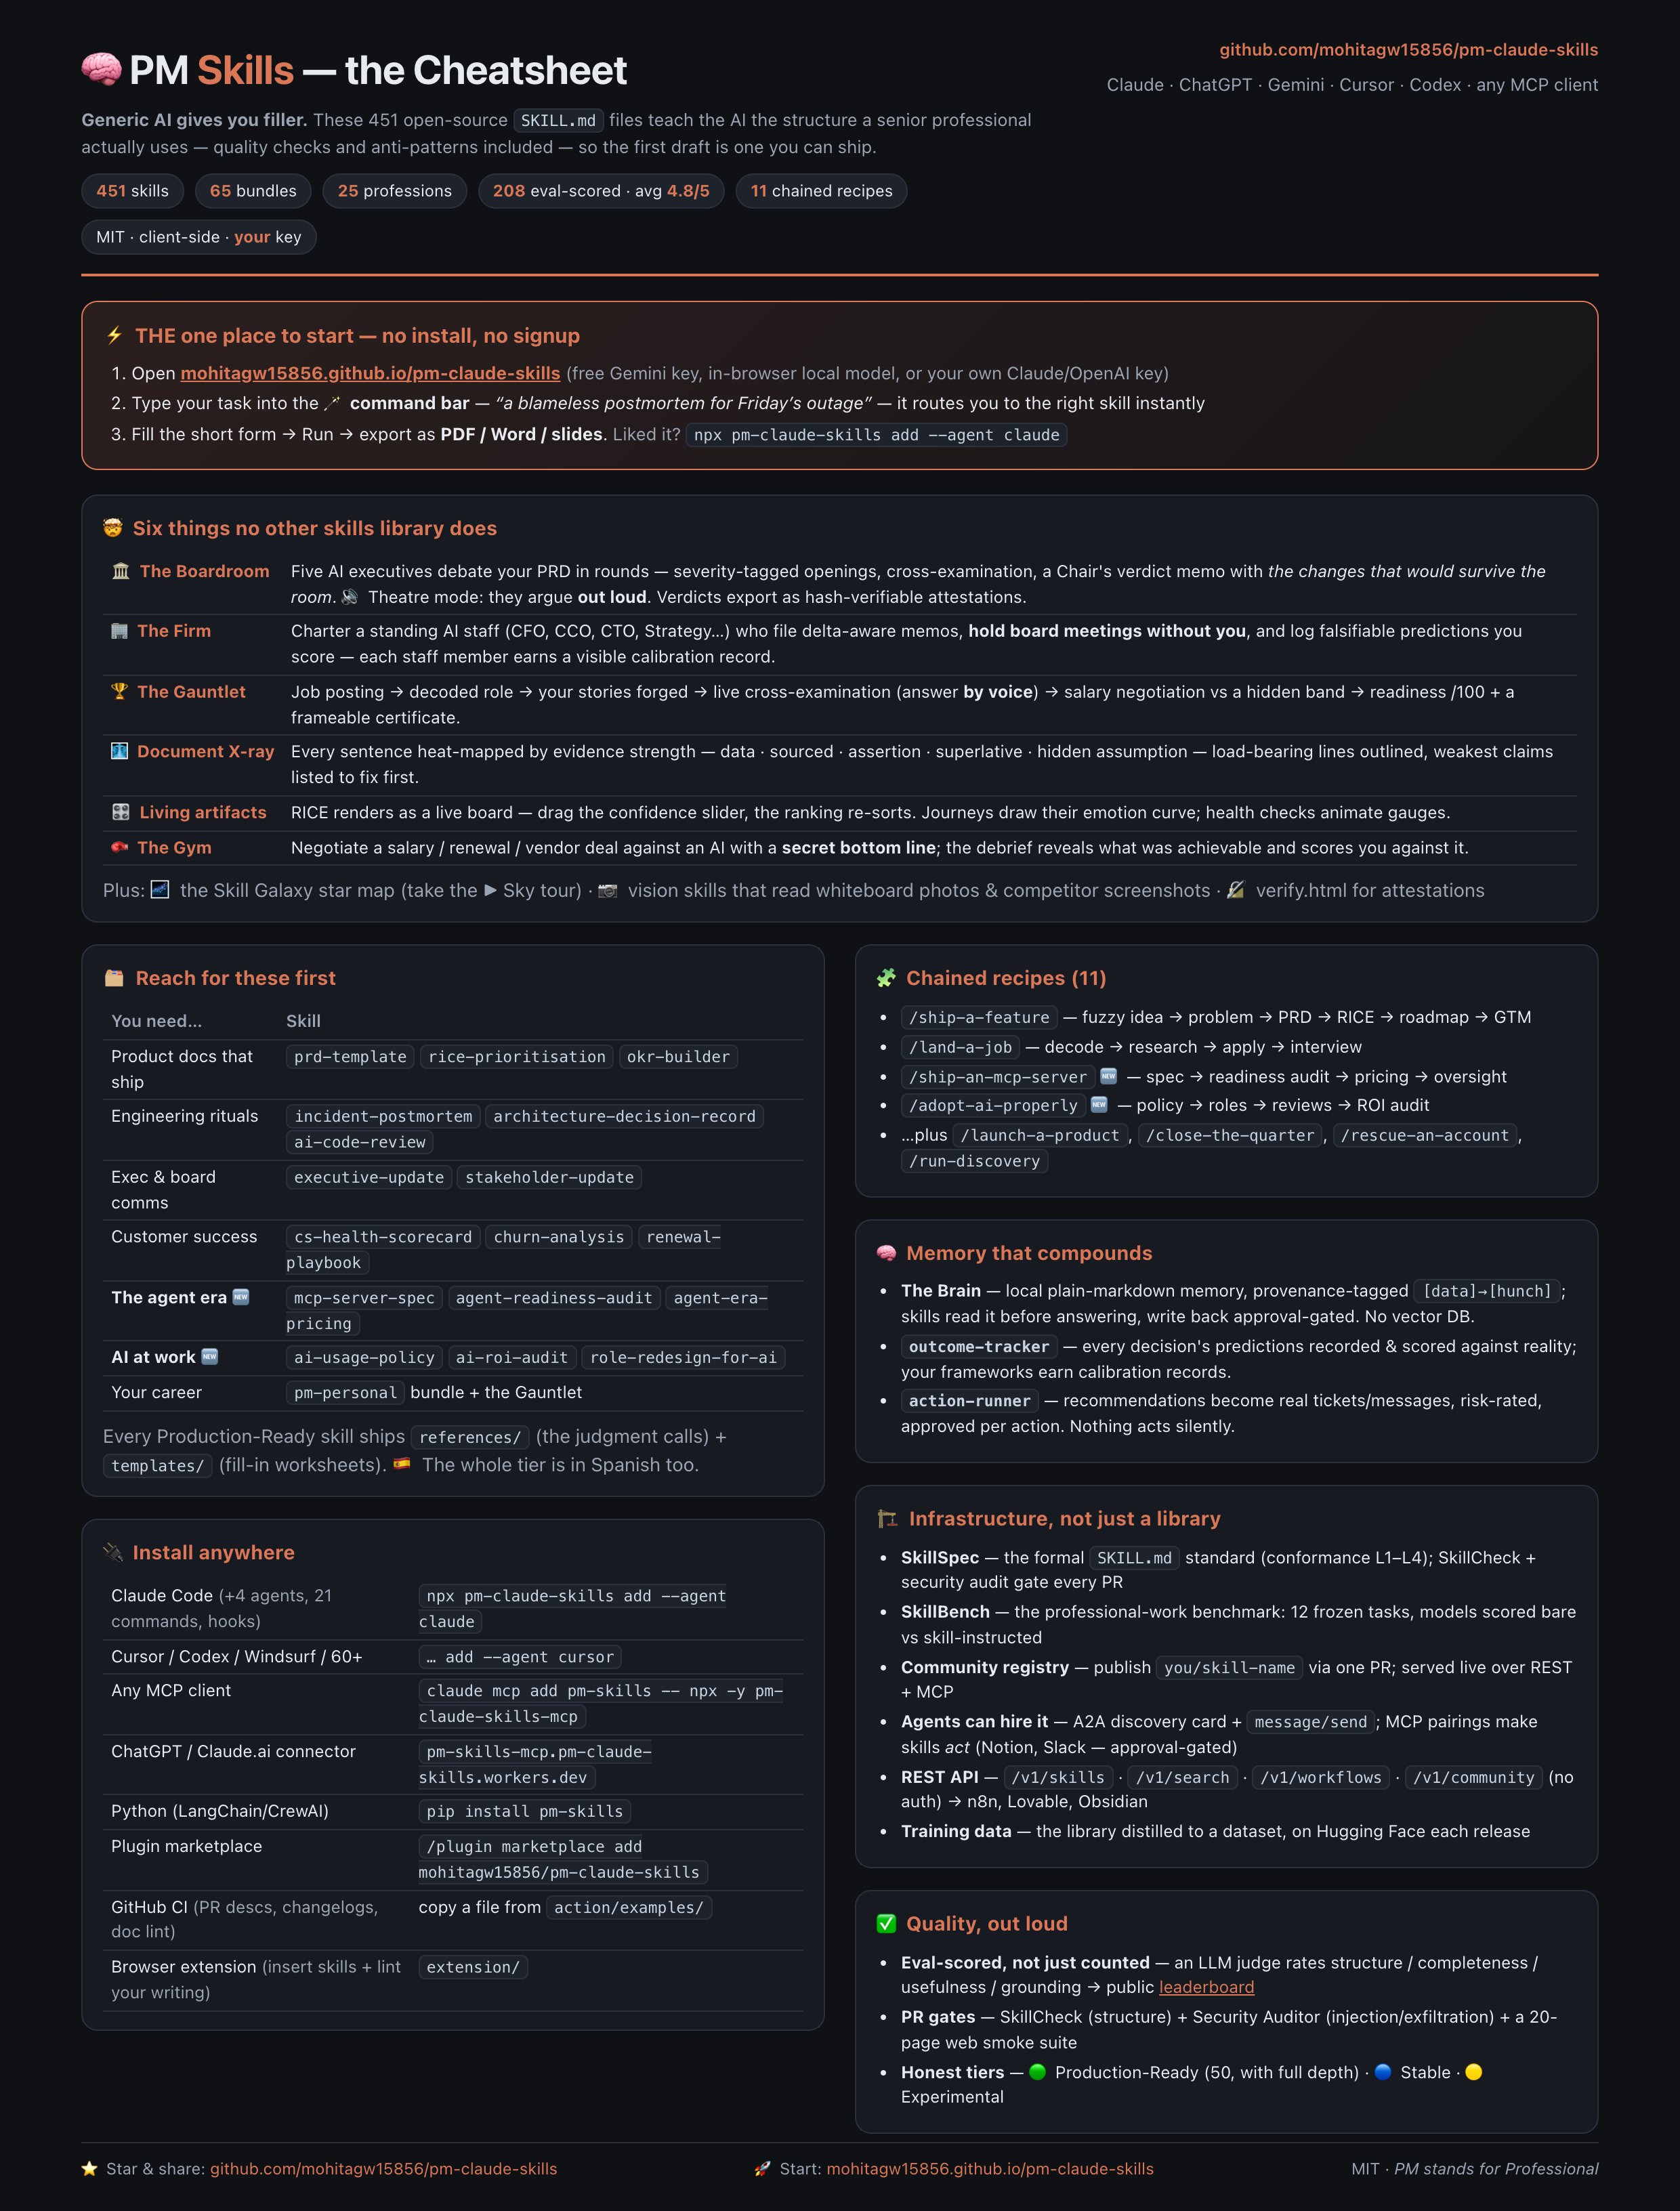
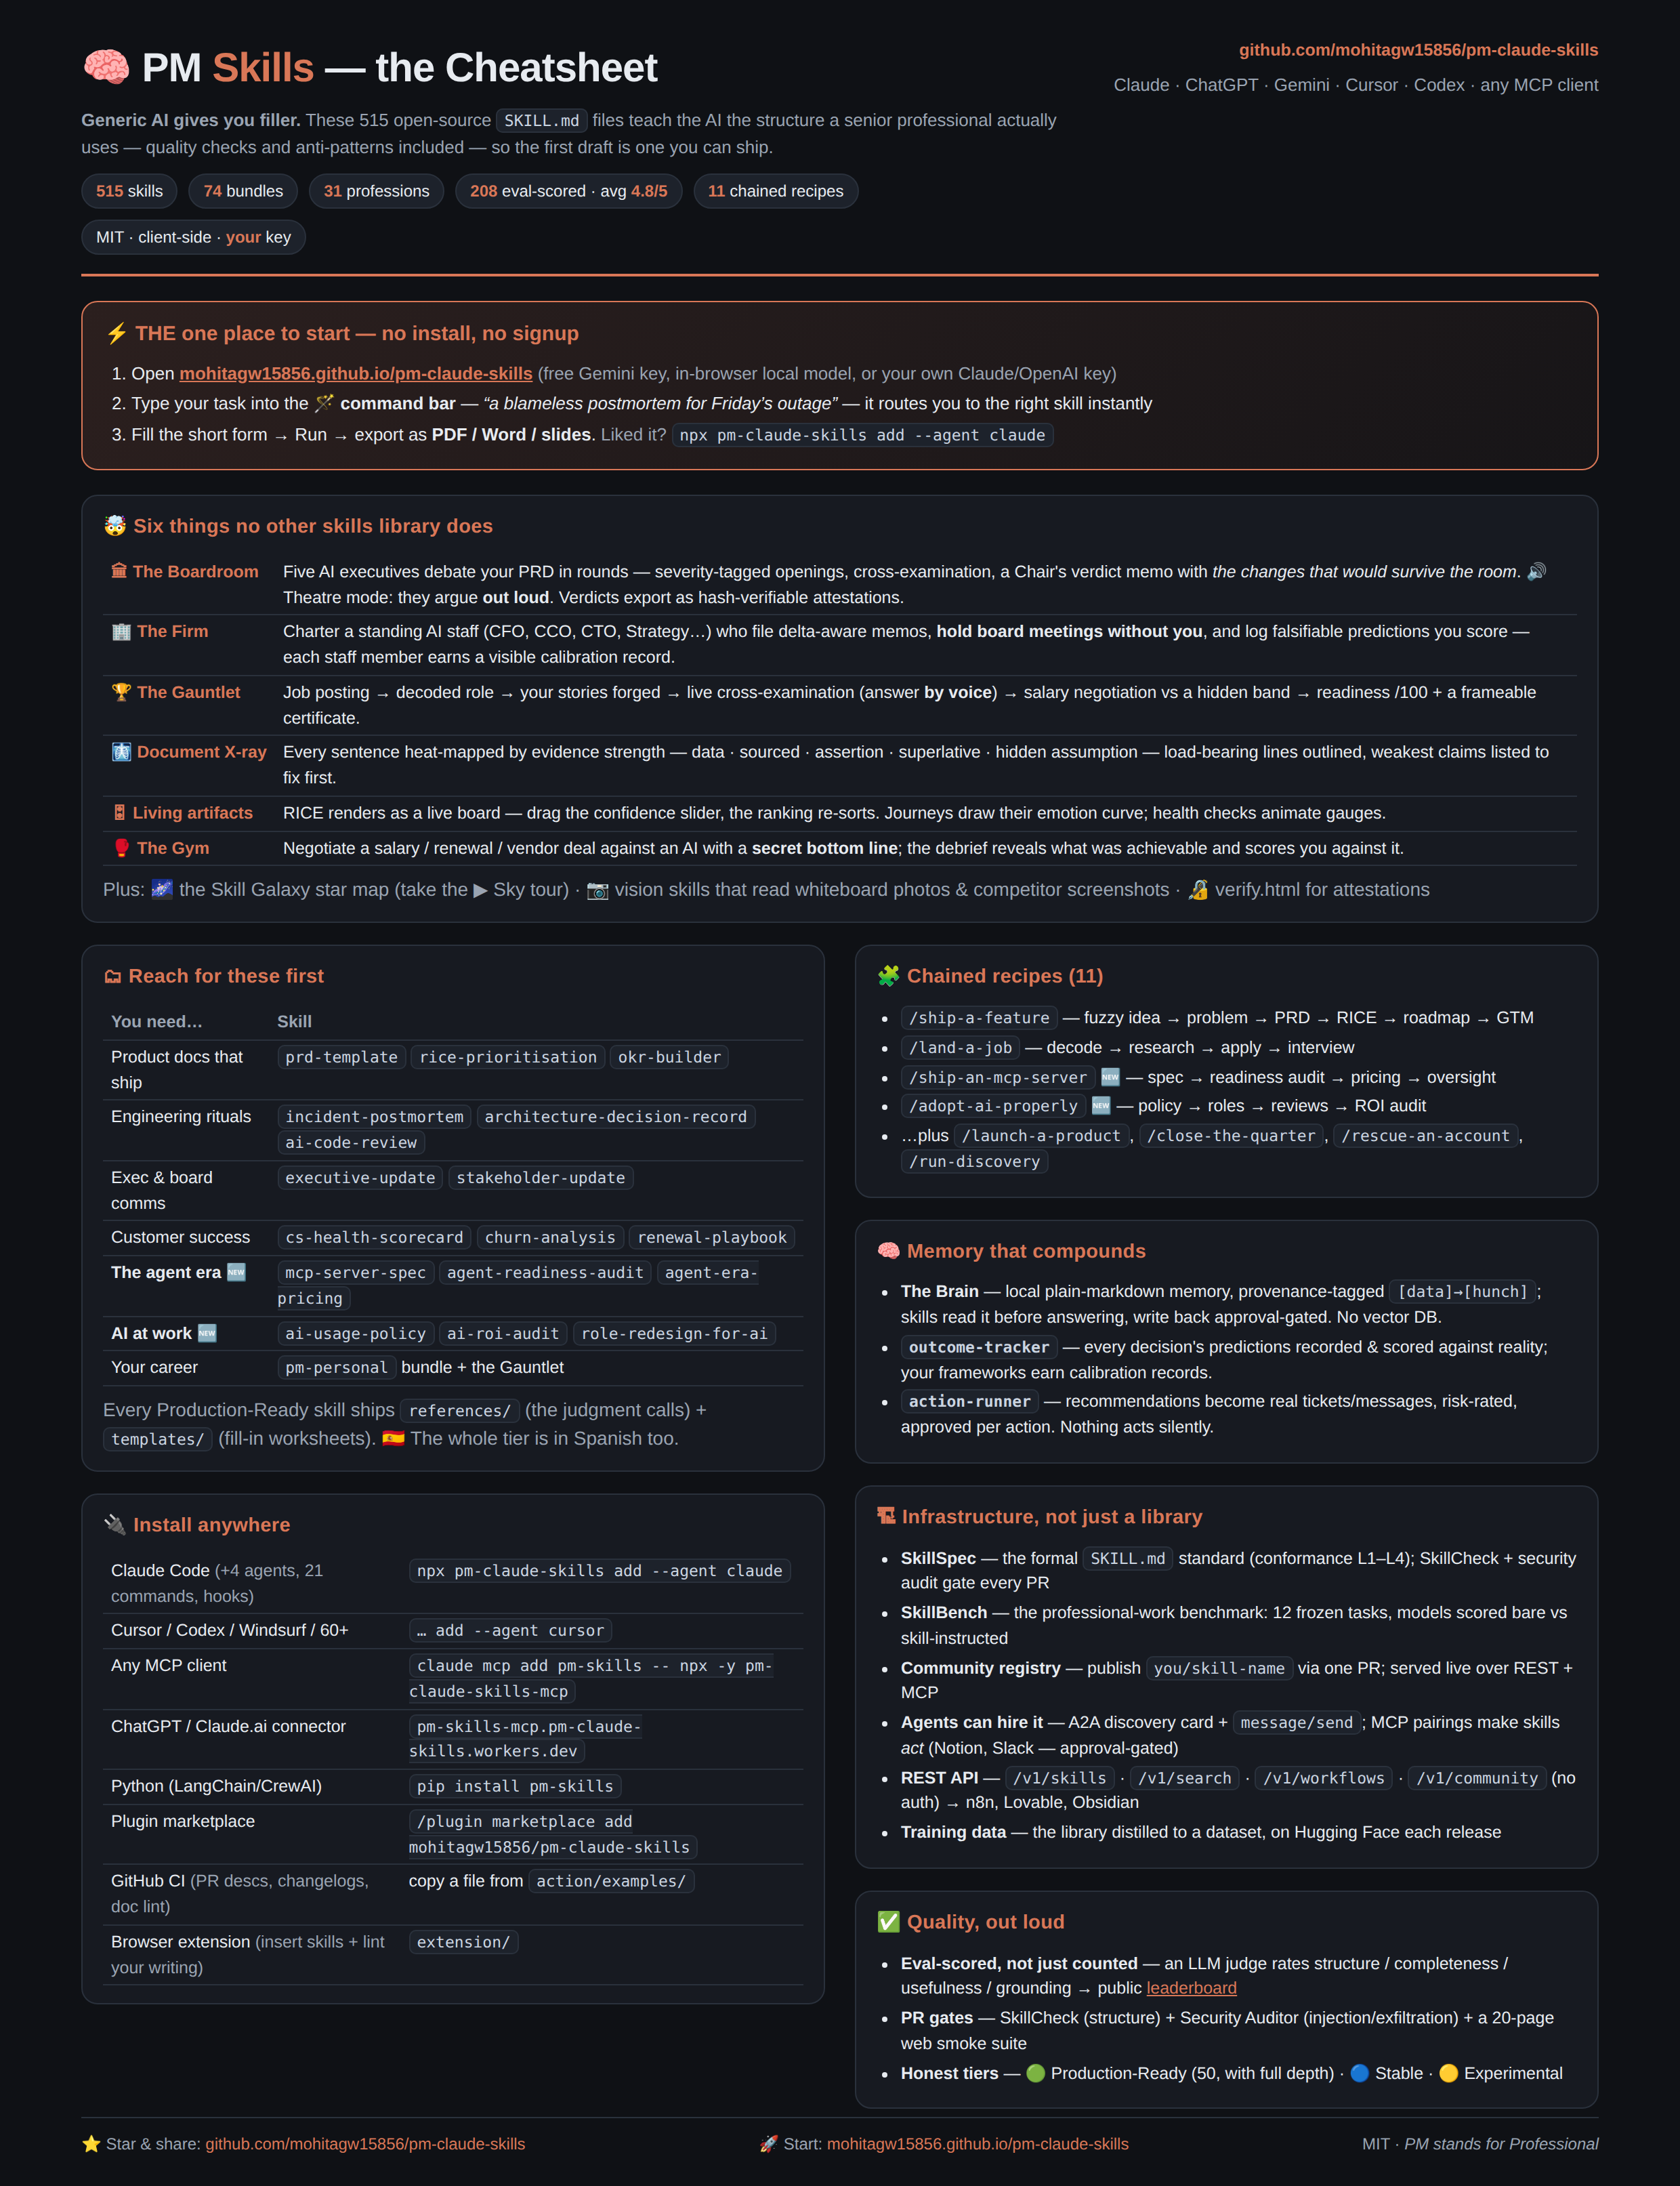
release: v52.0.0 + README refresh, cheatsheet & screenshots
The sensory & spatial release — ten new visual/interactive surfaces.

- Bump 51.0.0 → 52.0.0 (package.json, server.json ×2, marketplace.json).
- CHANGELOG [52.0.0]: Voice Mode, Live Capture, Video export, the War Table,
  Holo Cards, Work OS, Prompt-to-App, the Time Machine, Co-Canvas, Spatial 3D.
- README: trimmed the ~900-word multi-release hero paragraph and the giant
  "Latest" line down to concise v52 leads that point at the CHANGELOG (kept all
  real sections). Added a "New this release" showcase strip with live
  screenshots of Spatial 3D, Voice Mode, Holo Cards, the Time Machine and
  Make it real.
- Cheatsheet: corrected stale counts (74 bundles · 31 professions) and
  re-exported web/docs-assets/cheatsheet.png + .pdf.
- New showcase screenshots under web/docs-assets/showcase/.

Library stays 515 skills · 74 bundles — capability, not count.

Claude-Session: https://claude.ai/code/session_018DwjNk3MthezheWLnasYe8

diff --git a/web/cheatsheet.html b/web/cheatsheet.html
@@ -63,8 +63,8 @@
     <div class="tag"><b>Generic AI gives you filler.</b> These 515 open-source <code>SKILL.md</code> files teach the AI the structure a senior professional actually uses — quality checks and anti-patterns included — so the first draft is one you can ship.</div>
     <div class="stats">
       <span class="pill"><b>515</b> skills</span>
-      <span class="pill"><b>65</b> bundles</span>
-      <span class="pill"><b>25</b> professions</span>
+      <span class="pill"><b>74</b> bundles</span>
+      <span class="pill"><b>31</b> professions</span>
       <span class="pill"><b>208</b> eval-scored · avg <b>4.8/5</b></span>
       <span class="pill"><b>11</b> chained recipes</span>
       <span class="pill">MIT · client-side · <b>your</b> key</span>

diff --git a/CHANGELOG.md b/CHANGELOG.md
@@ -9,6 +9,29 @@ each new wave of skills bumps the **major** version, extensions and fixes bump
 
 ## [Unreleased]
 
+## [52.0.0] — the sensory & spatial release: new ways in, out, and around the library — 2026-07-16
+
+### Added — 🎙️ sensory: new ways in and out
+- **[Voice Mode](https://mohitagw15856.github.io/pm-claude-skills/voice.html)** — a hands-free voice agent fronted by a living canvas **orb** that listens, thinks, and speaks in colour. Web Speech STT + `speechSynthesis` TTS; pick a skill or a free assistant; optional hands-free re-loop. Audio never leaves the browser — only the transcript reaches your provider.
+- **[Live Capture](https://mohitagw15856.github.io/pm-claude-skills/capture.html)** — point a camera at a whiteboard / contract / screen / chart and turn the frame into an artifact **live**, with an animated scanning overlay. Uses the multi-provider vision path (Claude / Gemini / OpenAI).
+- **[Video export](https://mohitagw15856.github.io/pm-claude-skills/video.html)** — paste any output and render a shareable animated **`.webm`** (motion graphic, counting numbers, a Web-Audio soundtrack, your Brand-Kit colour) via `canvas.captureStream` + `MediaRecorder`. No upload.
+
+### Added — 🌊 living visuals
+- **[The War Table](https://mohitagw15856.github.io/pm-claude-skills/wartable.html)** — watch two AI agents **negotiate live**: moves land one at a time, a tension meter and deal-proximity bar swing, and it ends in a verdict (deal / close / standoff). Four scenarios.
+- **[Holo Cards](https://mohitagw15856.github.io/pm-claude-skills/holo.html)** — tear open a **booster pack** and pull tilt-reactive, gyroscope-aware **holographic** skill cards with rarities; every card deep-links into the Playground.
+
+### Added — 🌐 immersive & interactive
+- **[Work OS](https://mohitagw15856.github.io/pm-claude-skills/workos.html)** — a cinematic mission-control deck: dump your open loops and get a **ranked battle plan** that maps each item to the exact skill to run (one-click launches), with a live clock and a "deploy next" rail.
+- **[Prompt-to-App](https://mohitagw15856.github.io/pm-claude-skills/app.html)** — describe a tool (calculator / tracker / quiz / decision matrix) and get a complete **working single-file app** whose state serialises into the URL, so a link reproduces it.
+- **[The Time Machine](https://mohitagw15856.github.io/pm-claude-skills/timemachine.html)** — a draggable, **playable timeline** that replays your professional history (scans local data, accepts pasted `YYYY-MM-DD — event` lines, or a demo) — events and running state animate as you scrub.
+- **[Co-Canvas](https://mohitagw15856.github.io/pm-claude-skills/cocanvas.html)** — a sticky-note whiteboard where **the AI is a participant** (add / cluster / poke holes / expand), with live cross-tab sync (`BroadcastChannel`), presence, and room share links.
+- **[Spatial 3D](https://mohitagw15856.github.io/pm-claude-skills/spatial.html)** — fly through the whole library as a **3D constellation** (hand-rolled canvas projection, no deps): orbit, zoom, search, click a star to open it, coloured by bundle; detects VR headsets via WebXR.
+
+### Changed
+- 10 new surfaces added to the **🆕 New** nav group; new README showcase strip with live screenshots.
+- Cheatsheet poster refreshed (74 bundles · 31 professions) and re-exported to PNG/PDF.
+- **Library:** **515 skills, 74 bundles** — capability, not count.
+
 ## [51.0.0] — the artifact release: skills stop answering and start producing — 2026-07-16
 
 ### Added — 🏭 "Make it real": every skill's output becomes a real deliverable

diff --git a/README.md b/README.md
@@ -86,7 +86,7 @@
 
 A community-built library of professional skills for every field — product management, engineering, customer success, marketing, social media, writers, design, legal, finance, HR, sales, operations, research, and more. Each skill is a structured `SKILL.md` file that teaches an AI assistant how to produce professional-grade outputs for your workflows. Skills run natively in **Claude Code** and **Hermes Agent** (same open `SKILL.md` standard), and ship as ready-to-paste exports for **ChatGPT** and **Gemini** — see [Works With](#-works-with--cross-tool-compatibility).
 
-**🆕 v51.0.0 — the artifact release:** skills stop answering and start producing — 🏭 **[Make it real](https://mohitagw15856.github.io/pm-claude-skills/make.html)** turns any output into a real, on-brand deliverable and builds **[The Packet](https://mohitagw15856.github.io/pm-claude-skills/make.html)** (one brief → a `.zip` of `PRD.doc` + `plan.xlsx` + `deck.pptx`), 🎨 a **Brand Kit** (your logo + colours on every export, all local), 🧮 **live-formula Excel** and 🖼️ auto-designed **one-pagers**; 🗒️ **[Meeting → artifacts](https://mohitagw15856.github.io/pm-claude-skills/meeting.html)** turns a transcript into minutes + an action tracker + follow-up emails, 📊 **[Bring your own data](https://mohitagw15856.github.io/pm-claude-skills/data.html)** grounds a skill in your real CSV/Sheet (with 🌐 one-click translation into 10 languages), and 🌐 the **[Site builder](https://mohitagw15856.github.io/pm-claude-skills/site.html)** emits a self-contained website or a **living document** that stays interactive after download. Plus 💬 **[Consultant Mode](https://mohitagw15856.github.io/pm-claude-skills/consult.html)** (run any skill as an adaptive interview), 🤖 **[SkillBench model rankings](https://mohitagw15856.github.io/pm-claude-skills/modelbench.html)**, 🌱 a **self-growing library**, and 📕 the **[Handbook paperback](https://www.lulu.com/shop/mohit-aggarwal/the-professional-work-handbook/paperback/product-65kwrpk.html)**. **515 skills · 74 bundles.** *Earlier — v50, the wow release:* AI that reads your fine print and argues back — 🔍 **[pm-decoders](plugins/pm-decoders)** (lease, medical bill, ToS, loan, benefits, HOA — plain English, ranked red flags, what's negotiable), ⚔️ **[pm-simulators](plugins/pm-simulators)** (opposing counsel drafts the letter they'd send you, the VC partner meeting after you leave the room, regulator eyes, the customer who quietly churns, the acquirer's red team), 🧮 **four more skills that do real math** (exit-waterfall with computed conversion points, offer-comparison vesting curves, refinance-breakeven with the term-reset trap, fire-number's honesty grid — all CI-pinned), ✨ plus **[receipts-audit](skills/receipts-audit/SKILL.md)** (every claim graded against sources), **[personal-board-of-directors](skills/personal-board-of-directors/SKILL.md)**, **[altitude-shifter](skills/altitude-shifter/SKILL.md)** and **[decision-forensics](skills/decision-forensics/SKILL.md)**. **515 skills · 74 bundles · 31 professions.** *Earlier — v49, the professions release:* six industries nobody built AI for — 🏗 **[pm-construction](plugins/pm-construction)** (bid review, change orders, punch lists, toolbox talks, delay claims), 🔧 **[pm-hardware](plugins/pm-hardware)** (hardware PRDs, BOM review, EVT/DVT/PVT gates, FAT, tooling risk, 8D), 📦 **[pm-supplychain](plugins/pm-supplychain)**, 🌍 **[pm-climate](plugins/pm-climate)** (with a greenwashing self-audit), 🛡 **[pm-insurance](plugins/pm-insurance)** + 🏦 **[pm-banking](plugins/pm-banking)** — plus depth: 📖 worked examples on all 50 production skills, 🎯 0–40 scoring rubrics on all 50, ⌨️ CLI field-by-field prompting, 📜 **[SkillSpec in its own repo](https://github.com/mohitagw15856/skillspec)**. *Earlier — v48, the institution release:* 🏛 **[The Open Institute for Professional Judgment](https://mohitagw15856.github.io/pm-claude-skills/institute.html)** — SkillSpec (+ its [foundation trajectory](docs/FOUNDATION.md)), the Operator's Exam, SkillBench rankings, the census, the Season (with the Hall + automated rollover), and **[The State of Professional AI 2026](docs/reports/state-of-professional-ai-2026.md)**; 🏢 the **[Org Edition](org/)** (`docker compose up` = your company's library on your infra), 🎓 the **[6-week Syllabus](docs/syllabus/)** with SCORM export, 🎖 **[Agent Conformance](conformance/)** certification, 💼 the **[creator economy](docs/CREATORS.md)** (0% take). Plus the frontier wave: 🏆 the Season is OPEN, 🌙 the Nightwatch, ⏰ standing skills, 🗺 the Atlas, 📻 the Morning Show, 👥 multiplayer Boardroom, 🧠 the 7b pipeline. *Earlier — v46, the arsenal release:* ⚔️ **[`pm-warroom`](plugins/pm-warroom)** — the adversarial bundle (Premortem Assassin's twelve failure vectors, Devil's Twin writes the opposition's best memo, Metric Gaslighting Detector's eleven distortions, Decision Autopsy, Assumption Bounty), 🧮 **three more skills that do real math** (Erlang-C staffing, schedule Monte Carlo over the task DAG, tornado sensitivity — CI-pinned exact outputs), 🎭 shareable singles (eulogy-writer, wedding-speech, fine-appeal-letter, skill-fusion), 🎨 **generative identities on every skill page and playground card** (five banner families seeded from the name, matching colours + monograms, ⓘ links), 🎯 **466/466 SkillSpec L3 — CI-enforced**, 🧪 the 76-assertion scripts harness, 📱 the **PWA** (no-API core offline), 📈 [public vitals](https://mohitagw15856.github.io/pm-claude-skills/status.html) + self-operating crons, 🗺 [REPO-MAP](REPO-MAP.md). **466 skills · 66 bundles.** *Earlier — v45, the spectacle release:* Duels, the Charter, Galaxy 3D, the collapsing Tower of Claims, the Stage, holo cards & Skill City. *Earlier — v44, the legendary release:* Campaign mode, the Professional Work Handbook (2,470-rule Anti-Pattern Almanac), the Reckoning, the ecosystem package manager, zero-key MCP sampling, pm-skills-tools, the SkillSpec badge & the census. *Earlier — v43, the local-first & learning wave:* the 🗂 workspace bridge, Boardroom replay links & bench packs, 🎤 The Panel, 🎓 The Academy, 🎁 Wrapped, the evolution loop & pm-method. *Earlier — v42:* depth (`references/` + `templates/`) on all Production-Ready skills, 🔊 Theatre voices, Firm calibration & the CI smoke suite. *Earlier — v41, the modern skills wave:* two new domains — **🤖 [`pm-agentnative`](plugins/pm-agentnative)** (build for non-human users: [`mcp-server-spec`](skills/mcp-server-spec/SKILL.md), [`agent-readiness-audit`](skills/agent-readiness-audit/SKILL.md), [`agent-era-pricing`](skills/agent-era-pricing/SKILL.md), [`human-in-the-loop-design`](skills/human-in-the-loop-design/SKILL.md), [`voice-agent-design`](skills/voice-agent-design/SKILL.md)) and **🧑💼 [`pm-aiwork`](plugins/pm-aiwork)** (the questions every manager has this year: [`ai-roi-audit`](skills/ai-roi-audit/SKILL.md), [`role-redesign-for-ai`](skills/role-redesign-for-ai/SKILL.md), [`ai-usage-policy`](skills/ai-usage-policy/SKILL.md), [`ai-assisted-performance-review`](skills/ai-assisted-performance-review/SKILL.md), [`ai-content-audit`](skills/ai-content-audit/SKILL.md)) — plus 5 singles ([`ai-code-review`](skills/ai-code-review/SKILL.md), [`synthetic-user-research`](skills/synthetic-user-research/SKILL.md), [`async-decision-memo`](skills/async-decision-memo/SKILL.md), [`brand-impersonation-response`](skills/brand-impersonation-response/SKILL.md), [`feature-sunset-plan`](skills/feature-sunset-plan/SKILL.md)). Also: 🌠 Galaxy shooting stars + a 🎲 Warp button, 🎓 frameable [certificates](web/export-doc.js) from the arena pages, and 🔌 [MCP pairings](connectors/mcp-pairings.md) — skills that act through your connected servers. *Earlier — v40: [The Firm](https://mohitagw15856.github.io/pm-claude-skills/firm.html). v39 (three waves):* ⚡ *Superpowers:* [SkillBench](skillbench/) (the professional-work benchmark for models) · the [community registry](community/) (npm-for-skills) · the [Interview Gauntlet](https://mohitagw15856.github.io/pm-claude-skills/gauntlet.html) · [CI recipes](action/examples/) + [ambient hooks](hooks/) · Hugging Face [dataset publishing](dataset/) · [localization to 8 languages](i18n/). 🤯 *Breathtaking:* [living artifacts](https://mohitagw15856.github.io/pm-claude-skills/), [Document X-ray](https://mohitagw15856.github.io/pm-claude-skills/xray.html), [The Gym](https://mohitagw15856.github.io/pm-claude-skills/gym.html), [`pm-vision`](plugins/pm-vision), [`style-fingerprint`](skills/style-fingerprint/SKILL.md), [`evidence-lock`](skills/evidence-lock/SKILL.md). ✨ *Revamped:* the playground command bar + Galaxy 2.0 with a guided Sky tour. **466 skills · 66 bundles · 25 professions.** → [CHANGELOG](CHANGELOG.md) · [all releases](https://github.com/mohitagw15856/pm-claude-skills/releases).
+**🆕 v52.0.0 — the sensory & spatial release:** new ways in, out, and around the library — 🎙️ **[Voice Mode](https://mohitagw15856.github.io/pm-claude-skills/voice.html)** (talk to it; a living orb talks back), 📷 **[Live Capture](https://mohitagw15856.github.io/pm-claude-skills/capture.html)** (point a camera, get the artifact), 🎬 **[Video export](https://mohitagw15856.github.io/pm-claude-skills/video.html)** (any output → a shareable clip), ⚔️ **[The War Table](https://mohitagw15856.github.io/pm-claude-skills/wartable.html)** (watch two AIs negotiate live), 🎴 **[Holo Cards](https://mohitagw15856.github.io/pm-claude-skills/holo.html)**, 🛰️ **[Work OS](https://mohitagw15856.github.io/pm-claude-skills/workos.html)** (your open loops → a ranked battle plan), ⚙️ **[Prompt-to-App](https://mohitagw15856.github.io/pm-claude-skills/app.html)**, ⏳ **[The Time Machine](https://mohitagw15856.github.io/pm-claude-skills/timemachine.html)**, 🧑🤝🧑 **[Co-Canvas](https://mohitagw15856.github.io/pm-claude-skills/cocanvas.html)** (the AI joins your whiteboard), and 🌌 **[Spatial 3D](https://mohitagw15856.github.io/pm-claude-skills/spatial.html)** (fly through the whole library). **515 skills · 74 bundles.** → The full release history lives in the **[CHANGELOG](CHANGELOG.md)** · [all releases](https://github.com/mohitagw15856/pm-claude-skills/releases).
 
 ### ▶ See it in action — [try the live Skill Playground](https://mohitagw15856.github.io/pm-claude-skills/)
 
@@ -115,6 +115,22 @@ In Claude Code, [`/firm`](commands/firm.md) runs the same session natively — g
 </table>
 
 ---
+
+## 🆕 New this release — the sensory & spatial wave
+
+<table>
+  <tr>
+    <td width="64%"><a href="https://mohitagw15856.github.io/pm-claude-skills/spatial.html"><img src="web/docs-assets/showcase/spatial.png" alt="Spatial 3D — the whole library as a navigable 3D constellation of skills, coloured by bundle" /></a><br /><sub><b>🌌 <a href="https://mohitagw15856.github.io/pm-claude-skills/spatial.html">Spatial 3D</a></b> — fly through all 515 skills as a constellation you orbit, zoom, and click straight into.</sub></td>
+    <td width="36%"><a href="https://mohitagw15856.github.io/pm-claude-skills/voice.html"><img src="web/docs-assets/showcase/voice.png" alt="Voice Mode — a living orb you talk to hands-free; it listens, thinks, and speaks back" /></a><br /><sub><b>🎙️ <a href="https://mohitagw15856.github.io/pm-claude-skills/voice.html">Voice Mode</a></b> — talk to the library; a living orb listens and answers out loud.</sub></td>
+  </tr>
+  <tr>
+    <td><a href="https://mohitagw15856.github.io/pm-claude-skills/holo.html"><img src="web/docs-assets/showcase/holo.png" alt="Holo Cards — tilt-reactive holographic skill cards pulled from a booster pack, with rarities" /></a><br /><sub><b>🎴 <a href="https://mohitagw15856.github.io/pm-claude-skills/holo.html">Holo Cards</a></b> — tear open a pack and pull tilt-reactive holographic skill cards.</sub></td>
+    <td><a href="https://mohitagw15856.github.io/pm-claude-skills/timemachine.html"><img src="web/docs-assets/showcase/timemachine.png" alt="The Time Machine — a draggable, playable timeline that replays your professional history" /></a><br /><sub><b>⏳ <a href="https://mohitagw15856.github.io/pm-claude-skills/timemachine.html">The Time Machine</a></b> — scrub a playable timeline of your decisions & predictions.</sub></td>
+  </tr>
+  <tr>
+    <td colspan="2"><a href="https://mohitagw15856.github.io/pm-claude-skills/make.html"><img src="web/docs-assets/showcase/make.png" alt="Make it real — turn any skill's output into a branded document, deck, model, or a whole zip Packet" /></a><br /><sub><b>🏭 <a href="https://mohitagw15856.github.io/pm-claude-skills/make.html">Make it real</a></b> — any skill's output → a branded PDF / Word / deck / live-formula Excel, or a one-click <b>Packet</b> (a zip of finished documents). Plus ⚔️ <a href="https://mohitagw15856.github.io/pm-claude-skills/wartable.html">the War Table</a> (watch two AIs negotiate live), 🛰️ <a href="https://mohitagw15856.github.io/pm-claude-skills/workos.html">Work OS</a>, ⚙️ <a href="https://mohitagw15856.github.io/pm-claude-skills/app.html">Prompt-to-App</a>, 🧑🤝🧑 <a href="https://mohitagw15856.github.io/pm-claude-skills/cocanvas.html">Co-Canvas</a> & 🎬 <a href="https://mohitagw15856.github.io/pm-claude-skills/video.html">Video export</a>.</sub></td>
+  </tr>
+</table>
 
 ## ✨ The showcase — six things no other skills library does
 
@@ -958,7 +974,7 @@ More templates will follow. If you want to contribute one, see the [template con
 <details>
 <summary>Read more ↓</summary>
 
-**Latest: v51.0.0 — the artifact release: skills produce real deliverables — Make it real & the Packet (one brief → a zip of PRD.doc + plan.xlsx + deck.pptx), a local Brand Kit on every export, live-formula Excel, auto one-pagers, Meeting → artifacts (minutes + action tracker + emails), Bring-your-own-data grounding + translation into 10 languages, a Site builder that emits self-contained sites & living documents, Consultant Mode, SkillBench model rankings, the self-growing library, and the Handbook paperback on Lulu — 515 skills, 74 bundles** · *v50, the wow release:* pm-decoders (AI reads your lease, medical bill, ToS, loan, benefits and HOA fine print), pm-simulators (opposing counsel, the VC partner meeting, regulator eyes, the churning customer, the acquirer's red team), four more CI-pinned calculators (exit waterfall, offer comparison, refi breakeven, FIRE grid), receipts-audit, the personal board of directors, altitude-shifter and decision-forensics · *v49, the professions release:* 30 new skills for construction, hardware, supply chain, climate/ESG, insurance and banking, worked examples + 0–40 scoring rubrics on all 50 production skills, CLI field-by-field prompting, and SkillSpec spun out to its own RFC-governed repo · *v48, the institution release:* the Open Institute, the Org Edition, the Syllabus with SCORM, Agent Conformance, the creator economy (0% take), the Season + Nightwatch + Atlas + Morning Show · *v47, the off-web release:* text or call a skill (signature-verified Twilio Worker), the email-native operator, the printable Operator's Deck with QR deep-links, Run the Firm tycoon game, the local-only Watch-me-work coach extension, and the auto morning-show newsletter — plus a 🆕 New nav group + scrollable dropdowns · *v46, the arsenal release:* the pm-warroom adversarial bundle, three more computed skills, the shareable singles, generative identities everywhere, 466/466 L3 CI-enforced, the PWA, public vitals & the self-operating crons · *v44:* Campaign mode, the Handbook, the Reckoning, the ecosystem package manager, zero-key MCP sampling, pm-skills-tools, the badge & the census · *v43:* the workspace bridge, replay links & bench packs, The Panel, The Academy, Wrapped, the evolution loop & pm-method · *v42:* depth on all Production-Ready skills, arena voices, Firm calibration & the web-tests safety net · *v41, modern skills:* [`pm-agentnative`](plugins/pm-agentnative) + [`pm-aiwork`](plugins/pm-aiwork) (15 skills for the agent era), Galaxy cosmic events, 🎓 certificates & [MCP pairings](connectors/mcp-pairings.md) · *v40: [The Firm](https://mohitagw15856.github.io/pm-claude-skills/firm.html) · v39, three waves:* [SkillBench](skillbench/), the [community registry](community/), the [Interview Gauntlet](https://mohitagw15856.github.io/pm-claude-skills/gauntlet.html), [living artifacts](https://mohitagw15856.github.io/pm-claude-skills/), [Document X-ray](https://mohitagw15856.github.io/pm-claude-skills/xray.html), [The Gym](https://mohitagw15856.github.io/pm-claude-skills/gym.html), pm-vision, i18n, HF publishing, CI recipes & the Galaxy Sky tour. 515 skills across 74 bundles, 31 professions. Every tagged release has complete notes on the **[Releases page](https://github.com/mohitagw15856/pm-claude-skills/releases)**.
+**Latest: v52.0.0 — the sensory & spatial release:** Voice Mode, Live Capture, Video export, the War Table, Holo Cards, Work OS, Prompt-to-App, the Time Machine, Co-Canvas & Spatial 3D — ten new visual/interactive surfaces. Every tagged release has complete notes on the **[Releases page](https://github.com/mohitagw15856/pm-claude-skills/releases)** and in the **[CHANGELOG](CHANGELOG.md)**.
 
 Full [Keep a Changelog](https://keepachangelog.com/)-format history — every release back to the start — is in **[CHANGELOG.md](CHANGELOG.md)**.
 